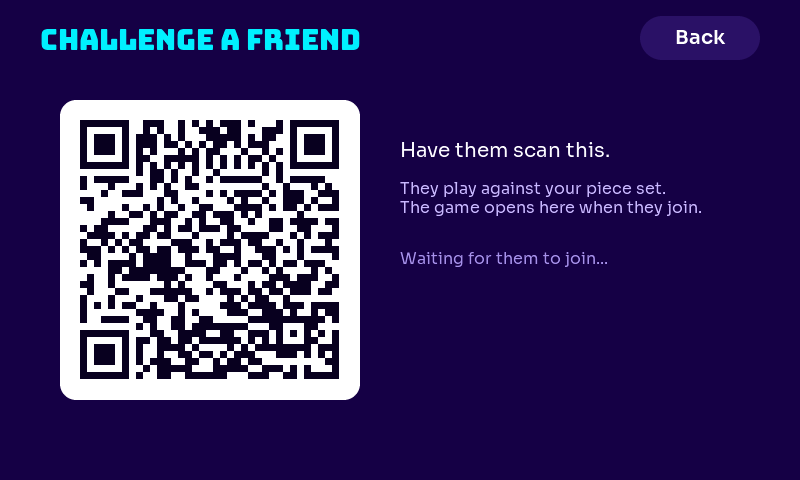
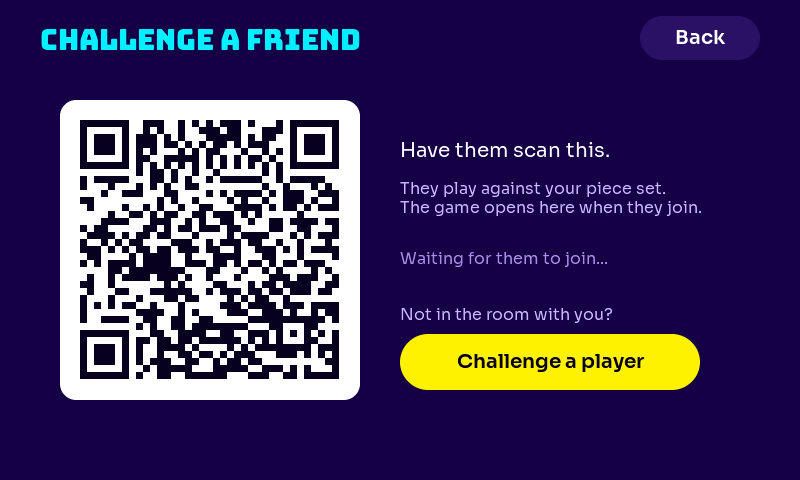
firmware 0.11.8: Sets and Make merged into one tab (Default or your sets), 4-tab nav
Claude-Session: https://claude.ai/code/session_0126mXcZJFVeQFhviwfz2V6j

Changed region(s): [[0.5, 0.625, 0.875, 0.8125]]

diff --git a/firmware/main/ui_game.c b/firmware/main/ui_game.c
@@ -19,6 +19,7 @@
 #define BOARD_Y 18
 #define PANEL_W 320          /* moves drawer width */
 #define RAIL_W 152
+#define BTN_W 112            /* Moves and Menu sit at the screen edge, well clear of the board */
 #define PAD 16
 
 typedef struct {
@@ -29,7 +30,7 @@ typedef struct {
     char pending_from[3], pending_to[3];
     /* Everything per-square is indexed by screen cell (row*8+col). */
     lv_obj_t *cells[64], *tint[64], *piece[64], *mark[64];
-    lv_obj_t *opp_name, *opp_sub, *opp_caps, *you_name, *you_caps, *status, *last;
+    lv_obj_t *avatar, *avatar_txt, *opp_card, *opp_name, *opp_sub, *opp_caps, *you_caps, *status, *last;
     lv_obj_t *btn_moves, *btn_menu;
     lv_obj_t *promo, *menu, *drawer, *drawer_list;
     bool sent;               /* our move is on its way; board already shows it */
@@ -275,10 +276,13 @@ static void set_status(ui_t *u)
 
 static void redraw_panel(ui_t *u)
 {
-    lv_label_set_text(u->opp_name, u->g.opponent[0] ? u->g.opponent : "Opponent");
+    /* Opponent: a round avatar with their initial (their picture once the API sends it). Tap it for the name. */
+    const char *nm = u->g.opponent[0] ? u->g.opponent : "Opponent";
+    char initial[2] = {(char)((nm[0] >= 'a' && nm[0] <= 'z') ? nm[0] - 32 : nm[0]), 0};
+    lv_label_set_text(u->avatar_txt, u->g.opp_ai ? "AI" : initial);
+    lv_label_set_text(u->opp_name, nm);
     if (u->g.opp_ai) lv_label_set_text(u->opp_sub, eg_difficulty_label(u->g.opp_difficulty[0] ? u->g.opp_difficulty : "intermediate"));
     else lv_label_set_text(u->opp_sub, "");
-    lv_label_set_text(u->you_name, "You");
 
     char you = u->g.you_white ? 'w' : 'b', opp = u->g.you_white ? 'b' : 'w';
     int lost_you[5], lost_opp[5];
@@ -530,6 +534,13 @@ static void moves_cb(lv_event_t *e)
     lv_anim_start(&a);
 }
 
+static void avatar_cb(lv_event_t *e)
+{
+    ui_t *u = U(lv_event_get_user_data(e));
+    if (lv_obj_has_flag(u->opp_card, LV_OBJ_FLAG_HIDDEN)) lv_obj_remove_flag(u->opp_card, LV_OBJ_FLAG_HIDDEN);
+    else lv_obj_add_flag(u->opp_card, LV_OBJ_FLAG_HIDDEN);
+}
+
 /* ---------- build ---------- */
 
 static lv_obj_t *mk_button(lv_obj_t *p, const char *txt, lv_color_t border, int x, int w)
@@ -632,14 +643,39 @@ lv_obj_t *eg_game_create(lv_obj_t *parent, const eg_game_cb_t *cb)
     plain(left);
     lv_obj_set_size(left, RAIL_W, 480);
     lv_obj_set_pos(left, 12, 0);
-    u->opp_name = mk_label(left, &eg_sora_20_bold, EG_FG, "");
+    u->avatar = lv_obj_create(left);
+    lv_obj_set_size(u->avatar, 64, 64);
+    lv_obj_set_pos(u->avatar, 0, 18);
+    lv_obj_set_style_radius(u->avatar, LV_RADIUS_CIRCLE, 0);
+    lv_obj_set_style_bg_color(u->avatar, EG_SURFACE, 0);
+    lv_obj_set_style_border_width(u->avatar, 2, 0);
+    lv_obj_set_style_border_color(u->avatar, EG_PINK, 0);
+    lv_obj_set_style_pad_all(u->avatar, 0, 0);
+    lv_obj_clear_flag(u->avatar, LV_OBJ_FLAG_SCROLLABLE);
+    lv_obj_add_flag(u->avatar, LV_OBJ_FLAG_CLICKABLE);
+    u->avatar_txt = mk_label(u->avatar, &eg_sora_20_bold, EG_FG, "");
+    lv_obj_center(u->avatar_txt);
+    lv_obj_add_event_cb(u->avatar, avatar_cb, LV_EVENT_CLICKED, scr);
+
+    /* name card: hidden until the avatar is tapped, closes on the next tap */
+    u->opp_card = lv_obj_create(scr);
+    lv_obj_set_size(u->opp_card, 300, 84);
+    lv_obj_set_pos(u->opp_card, 12, 90);
+    lv_obj_set_style_radius(u->opp_card, 14, 0);
+    lv_obj_set_style_bg_color(u->opp_card, EG_BG_VOID, 0);
+    lv_obj_set_style_border_width(u->opp_card, 2, 0);
+    lv_obj_set_style_border_color(u->opp_card, EG_PINK, 0);
+    lv_obj_set_style_pad_all(u->opp_card, 12, 0);
+    lv_obj_clear_flag(u->opp_card, LV_OBJ_FLAG_SCROLLABLE);
+    lv_obj_add_flag(u->opp_card, LV_OBJ_FLAG_HIDDEN);
+    lv_obj_add_event_cb(u->opp_card, avatar_cb, LV_EVENT_CLICKED, scr);
+    u->opp_name = mk_label(u->opp_card, &eg_sora_20_bold, EG_FG, "");
     lv_label_set_long_mode(u->opp_name, LV_LABEL_LONG_DOT);
-    lv_obj_set_width(u->opp_name, RAIL_W);
-    lv_obj_set_pos(u->opp_name, 0, 18);
-    u->opp_sub = mk_label(left, &eg_sora_16, EG_FG_HAZE, "");
-    lv_label_set_long_mode(u->opp_sub, LV_LABEL_LONG_WRAP);
-    lv_obj_set_width(u->opp_sub, RAIL_W);
-    lv_obj_set_pos(u->opp_sub, 0, 46);
+    lv_obj_set_width(u->opp_name, 272);
+    lv_obj_align(u->opp_name, LV_ALIGN_TOP_LEFT, 0, 0);
+    u->opp_sub = mk_label(u->opp_card, &eg_sora_16, EG_FG_HAZE, "");
+    lv_obj_align(u->opp_sub, LV_ALIGN_BOTTOM_LEFT, 0, 0);
+
     u->opp_caps = lv_obj_create(left);
     plain(u->opp_caps);
     lv_obj_set_size(u->opp_caps, RAIL_W, 30);
@@ -647,15 +683,13 @@ lv_obj_t *eg_game_create(lv_obj_t *parent, const eg_game_cb_t *cb)
 
     u->status = mk_label(left, &eg_sora_20_bold, EG_FG_HAZE, "");
     lv_label_set_long_mode(u->status, LV_LABEL_LONG_WRAP);
-    lv_obj_set_width(u->status, RAIL_W);
+    lv_obj_set_width(u->status, RAIL_W - 12);
     lv_obj_set_pos(u->status, 0, 200);
     u->last = mk_label(left, &eg_sora_16, EG_YELLOW, "");
     lv_label_set_long_mode(u->last, LV_LABEL_LONG_WRAP);
-    lv_obj_set_width(u->last, RAIL_W);
+    lv_obj_set_width(u->last, RAIL_W - 12);
     lv_obj_set_pos(u->last, 0, 234);
 
-    u->you_name = mk_label(left, &eg_sora_20_bold, EG_FG, "");
-    lv_obj_set_pos(u->you_name, 0, 352);
     u->you_caps = lv_obj_create(left);
     plain(u->you_caps);
     lv_obj_set_size(u->you_caps, RAIL_W, 30);
@@ -666,9 +700,9 @@ lv_obj_t *eg_game_create(lv_obj_t *parent, const eg_game_cb_t *cb)
     plain(right);
     lv_obj_set_size(right, RAIL_W, 480);
     lv_obj_set_pos(right, 800 - 12 - RAIL_W, 0);
-    u->btn_moves = mk_button(right, "Moves", EG_CYAN, 0, RAIL_W);
+    u->btn_moves = mk_button(right, "Moves", EG_CYAN, RAIL_W - BTN_W, BTN_W);
     lv_obj_set_y(u->btn_moves, 18);
-    u->btn_menu = mk_button(right, "Menu", EG_YELLOW, 0, RAIL_W);
+    u->btn_menu = mk_button(right, "Menu", EG_YELLOW, RAIL_W - BTN_W, BTN_W);
     lv_obj_set_y(u->btn_menu, 406);
     lv_obj_add_event_cb(u->btn_moves, moves_cb, LV_EVENT_CLICKED, scr);
     lv_obj_add_event_cb(u->btn_menu, menu_cb, LV_EVENT_CLICKED, scr);

diff --git a/firmware/main/pieces_store.c b/firmware/main/pieces_store.c
@@ -4,6 +4,7 @@
 #include "esp_heap_caps.h"
 #include "esp_log.h"
 #include "lvgl.h"
+#include "esp_lvgl_port.h"
 #include "pieces.h"
 #include <string.h>
 
@@ -32,14 +33,20 @@ const void *eg_piece_src(char color, char type)
 
 /* PNG -> ARGB8888 (LVGL byte order B,G,R,A) resized to EG_PIECE_PX with an alpha-weighted box filter.
  * Decoding once here keeps every board redraw a plain copy. Returns PSRAM memory or NULL. */
-static uint8_t *decode_scaled(const void *png, size_t len)
+static uint8_t *decode_scaled_locked(const void *png, size_t len)
 {
     unsigned char *rgba = NULL;
     unsigned w = 0, h = 0;
-    if (lodepng_decode32(&rgba, &w, &h, png, len) != 0 || !rgba || !w || !h) { free(rgba); return NULL; }
+    /* lodepng allocates through LVGL (lv_malloc), so its buffer goes back with lv_free, never free() */
+    unsigned err = lodepng_decode32(&rgba, &w, &h, png, len);
+    if (err || !rgba || !w || !h) {
+        ESP_LOGW(TAG, "png decode: %s", err ? lodepng_error_text(err) : "empty image");
+        lv_free(rgba);
+        return NULL;
+    }
     const int N = EG_PIECE_PX;
     uint8_t *out = heap_caps_malloc(N * N * 4, MALLOC_CAP_SPIRAM);
-    if (!out) { free(rgba); return NULL; }
+    if (!out) { lv_free(rgba); return NULL; }
     for (int y = 0; y < N; y++) {
         unsigned y0 = y * h / N, y1 = (y + 1) * h / N; if (y1 <= y0) y1 = y0 + 1;
         for (int x = 0; x < N; x++) {
@@ -55,7 +62,18 @@ static uint8_t *decode_scaled(const void *png, size_t len)
             o[3] = n ? a / n : 0;
         }
     }
-    free(rgba);
+    lv_free(rgba);
+    return out;
+}
+
+/* PNG -> ARGB8888 (LVGL byte order B,G,R,A) resized to EG_PIECE_PX with an alpha-weighted box filter.
+ * Runs on the network task: LVGL's allocator isn't thread-safe, so hold the LVGL lock while lodepng uses it.
+ * Returns PSRAM memory or NULL. */
+static uint8_t *decode_scaled(const void *png, size_t len)
+{
+    lvgl_port_lock(0);
+    uint8_t *out = decode_scaled_locked(png, len);
+    lvgl_port_unlock();
     return out;
 }
 
@@ -69,10 +87,16 @@ bool eg_pieces_load(const char *token, bool *changed)
 
     void *fresh[12] = {0};
     for (int i = 0; i < 12; i++) {
-        size_t len = 0;
-        void *png = eg_http_download(urls[i], &len);
-        fresh[i] = png ? decode_scaled(png, len) : NULL;
-        heap_caps_free(png);
+        for (int attempt = 0; attempt < 3 && !fresh[i]; attempt++) {
+            size_t len = 0;
+            void *png = eg_http_download(urls[i], &len);
+            fresh[i] = png ? decode_scaled(png, len) : NULL;
+            if (!fresh[i]) ESP_LOGW(TAG, "piece %d attempt %d: %s (%u bytes), internal free %u, largest %u", i, attempt + 1,
+                                    png ? "decode failed" : "download failed", (unsigned)len,
+                                    (unsigned)heap_caps_get_free_size(MALLOC_CAP_INTERNAL),
+                                    (unsigned)heap_caps_get_largest_free_block(MALLOC_CAP_INTERNAL));
+            heap_caps_free(png);
+        }
         if (!fresh[i]) {
             ESP_LOGW(TAG, "piece %d failed", i);
             for (int j = 0; j < i; j++) heap_caps_free(fresh[j]);

diff --git a/firmware/main/api.c b/firmware/main/api.c
@@ -520,18 +520,52 @@ eg_result_t eg_api_challenge_respond(const char *token, const char *id, bool acc
     return r;
 }
 
+/* Image downloads (piece and set images on the storage host). One kept-alive connection, like the API:
+ * a fresh TLS handshake per image cost about a second each and, twelve in a row, left too little
+ * memory for the next one. On a transport error the client is rebuilt once. */
+static esp_http_client_handle_t s_dl;
+static body_t *s_dl_body;
+
+static esp_err_t on_event_dl(esp_http_client_event_t *e)
+{
+    e->user_data = s_dl_body;
+    return on_event(e);
+}
+
 void *eg_http_download(const char *url, size_t *len)
 {
     body_t b = {0};
-    esp_http_client_config_t cfg = {
-        .url = url, .event_handler = on_event, .user_data = &b,
-        .crt_bundle_attach = esp_crt_bundle_attach, .timeout_ms = 15000,
-    };
-    esp_http_client_handle_t c = esp_http_client_init(&cfg);
-    esp_err_t err = esp_http_client_perform(c);
-    int st = err == ESP_OK ? esp_http_client_get_status_code(c) : -1;
-    esp_http_client_cleanup(c);
-    if (st != 200) { heap_caps_free(b.buf); return NULL; }
+    int st = -1;
+    s_dl_body = &b;
+    for (int attempt = 0; attempt < 2 && st == -1; attempt++) {
+        if (!s_dl) {
+            esp_http_client_config_t cfg = {
+                .url = url, .event_handler = on_event_dl,
+                .crt_bundle_attach = esp_crt_bundle_attach, .timeout_ms = 15000,
+                .keep_alive_enable = true,
+            };
+            s_dl = esp_http_client_init(&cfg);
+            if (!s_dl) break;
+        }
+        esp_http_client_set_url(s_dl, url);
+        esp_http_client_set_method(s_dl, HTTP_METHOD_GET);
+        esp_err_t err = esp_http_client_perform(s_dl);
+        if (err == ESP_OK) {
+            st = esp_http_client_get_status_code(s_dl);
+        } else {
+            ESP_LOGW(TAG, "download failed: %s (attempt %d)", esp_err_to_name(err), attempt + 1);
+            heap_caps_free(b.buf);
+            b = (body_t){0};
+            esp_http_client_cleanup(s_dl);
+            s_dl = NULL;
+        }
+    }
+    s_dl_body = NULL;
+    if (st != 200 || !b.buf) {
+        if (st != -1) ESP_LOGW(TAG, "download HTTP %d: %.80s", st, url);
+        heap_caps_free(b.buf);
+        return NULL;
+    }
     *len = b.len;
     return b.buf;
 }

diff --git a/firmware/main/main.c b/firmware/main/main.c
@@ -4,6 +4,7 @@
  * task is wrapped in lvgl_port_lock / unlock. */
 #include "api.h"
 #include "bsp.h"
+#include "esp_heap_caps.h"
 #include "esp_log.h"
 #include "esp_lvgl_port.h"
 #include "freertos/FreeRTOS.h"
@@ -533,7 +534,12 @@ static void net_task(void *arg)
             if (req.resign && view == V_GAME && have_game) {
                 req.resign = false;
                 r = eg_api_resign(token, cur.id, &scratch);
-                if (r == EG_OK) apply_game(&scratch);
+                if (r == EG_OK) {                         /* resigned: back to the home screen */
+                    have_game = false;
+                    view = V_HOME;
+                    next_poll = 0;
+                    show_main(scr_home);
+                }
             }
             if (mailbox.pending && view == V_GAME && have_game) {
                 mailbox.pending = false;
@@ -594,6 +600,17 @@ void app_main(void)
 
     if (!eg_bsp_init()) { ESP_LOGE(TAG, "display init failed"); return; }
 
+    /* LVGL's 256 KB pool is too small for every screen plus piece decoding: give it 8 MB of PSRAM. */
+    {
+        const size_t extra = 8 * 1024 * 1024;
+        void *pool = heap_caps_malloc(extra, MALLOC_CAP_SPIRAM);
+        lvgl_port_lock(0);
+        if (!pool) ESP_LOGW(TAG, "no PSRAM for the LVGL pool");
+        else if (!lv_mem_add_pool(pool, extra)) { ESP_LOGE(TAG, "LVGL refused the extra pool"); heap_caps_free(pool); }
+        else ESP_LOGI(TAG, "LVGL pool +%u KB", (unsigned)(extra / 1024));
+        lvgl_port_unlock();
+    }
+
     lvgl_port_lock(0);
     scr_wifi = eg_wifi_create(NULL, on_wifi_connect, request_scan, on_wifi_back);
     eg_screens_set_wifi_handler(on_menu_wifi);
@@ -607,6 +624,7 @@ void app_main(void)
     scr_qm = eg_qm_create(NULL, on_qm_cancel, on_qm_retry);
     eg_find_cb_t fcb = {.on_query = on_find_query, .on_send = on_find_send, .on_link = on_home_challenge, .on_back = on_sub_back};
     scr_find = eg_find_create(NULL, &fcb);
+    eg_challenge_set_find(scr_chal, on_home_find);
     scr_sets = eg_sets_create(NULL, on_pick_set);
     scr_make = eg_make_create(NULL);
     scr_rank = eg_rank_create(NULL);

diff --git a/firmware/main/ui_screens.c b/firmware/main/ui_screens.c
@@ -851,9 +851,16 @@ void eg_ai_setup_set_status(lv_obj_t *screen, const char *msg)
 
 /* ---------- challenge a friend ---------- */
 
-typedef struct { void (*back)(void); lv_obj_t *tile, *qr, *status; } chal_t;
+typedef struct { void (*back)(void); void (*find)(void); lv_obj_t *tile, *qr, *status; } chal_t;
 
 static void chal_back_cb(lv_event_t *e) { chal_t *c = lv_event_get_user_data(e); if (c->back) c->back(); }
+static void chal_find_cb(lv_event_t *e) { chal_t *c = lv_event_get_user_data(e); if (c->find) c->find(); }
+
+void eg_challenge_set_find(lv_obj_t *screen, void (*on_find)(void))
+{
+    chal_t *c = lv_obj_get_user_data(screen);
+    c->find = on_find;
+}
 
 lv_obj_t *eg_challenge_create(lv_obj_t *parent, void (*on_back)(void))
 {
@@ -888,6 +895,12 @@ lv_obj_t *eg_challenge_create(lv_obj_t *parent, void (*on_back)(void))
     lv_label_set_long_mode(c->status, LV_LABEL_LONG_WRAP);
     lv_obj_set_width(c->status, 360);
     lv_obj_set_pos(c->status, 400, 250);
+
+    /* the QR only works for someone in the room */
+    lv_obj_set_pos(label(s, &eg_sora_16, EG_FG_HAZE, "Not in the room with you?"), 400, 306);
+    lv_obj_t *fb = pill(s, "Challenge a player", EG_YELLOW, 400, 334, 300, 56);
+    lv_obj_set_style_text_color(lv_obj_get_child(fb, 0), EG_BG_VOID, 0);
+    lv_obj_add_event_cb(fb, chal_find_cb, LV_EVENT_CLICKED, c);
     return s;
 }
 
@@ -1342,7 +1355,7 @@ lv_obj_t *eg_you_create(lv_obj_t *parent, void (*on_forget)(void), const char *v
     lv_obj_add_event_cb(fb, you_forget_cb, LV_EVENT_CLICKED, y);
 
     lv_obj_t *v = label(s, &eg_sora_16, EG_FG_MIST, "");
-    lv_label_set_text_fmt(v, "Endgames board  ·  firmware %s\nUpdates install on their own between games.", version);
+    lv_label_set_text_fmt(v, "Firmware %s (auto update)", version);
     lv_obj_set_pos(v, 40, 330);
     add_nav(s, 4);
     return s;

diff --git a/firmware/main/ui_screens.h b/firmware/main/ui_screens.h
@@ -48,6 +48,7 @@ void eg_ai_setup_set_status(lv_obj_t *screen, const char *msg);
 /* Challenge a friend: QR of the challenge link. */
 lv_obj_t *eg_challenge_create(lv_obj_t *parent, void (*on_back)(void));
 void eg_challenge_set(lv_obj_t *screen, const char *url, const char *status);   /* url NULL hides the QR */
+void eg_challenge_set_find(lv_obj_t *screen, void (*on_find)(void));          /* "Challenge a player" button */
 
 /* Quick match: "Looking for an opponent..." with Cancel. searching false shows Try again and turns Cancel into Back. */
 lv_obj_t *eg_qm_create(lv_obj_t *parent, void (*on_cancel)(void), void (*on_retry)(void));

diff --git a/firmware/README.md b/firmware/README.md
@@ -4,6 +4,10 @@ Runs on the Elecrow CrowPanel Advanced 5" ESP32-P4 (800x480, GT911 touch). ESP-I
 
 **Status:** compiles for the ESP32-P4 with ESP-IDF v5.5.1 (verified 2026-10-04). `main/bsp.c` brings up the screen, touch, backlight and Wi-Fi using the pins and timings from Elecrow's published sources for this board. Runs on the real board; over-the-air releases 0.8.0 to 0.10.1 have shipped and one board is paired.
 
+## Known issue: Wi-Fi chip startup on early P4 boards
+
+Boards with ESP32-P4 silicon v1.x (the boot log says `chip revision: v1.3`) can crash in a loop while ESP-Hosted starts the C6 Wi-Fi chip, before `app_main` (`assert failed: vApplicationGetIdleTaskMemory` or `esp_startup_start_app`). It hit the reference board on 2026-10-05 with firmware that had worked the day before. Fixed in 0.11.4 (0.11.5 for the full fix) by keeping ESP-Hosted's transport buffers in PSRAM (`CONFIG_ESP_HOSTED_MEMPOOL_PREFER_SPIRAM`) and running the SDIO link at 20 MHz. PSRAM stays at 200 MHz: at 80 MHz the RGB panel cannot read its frame buffer fast enough and the picture drifts sideways. Background: Elecrow CrowPanel 5" P4 issue #3, esp-hosted #657, esp-hosted-mcu #167. The C6 still runs its factory ESP-Hosted firmware, which is older than the host side; updating it over SDIO is the longer-term fix.
+
 ## Layout
 
 | Path | What |
